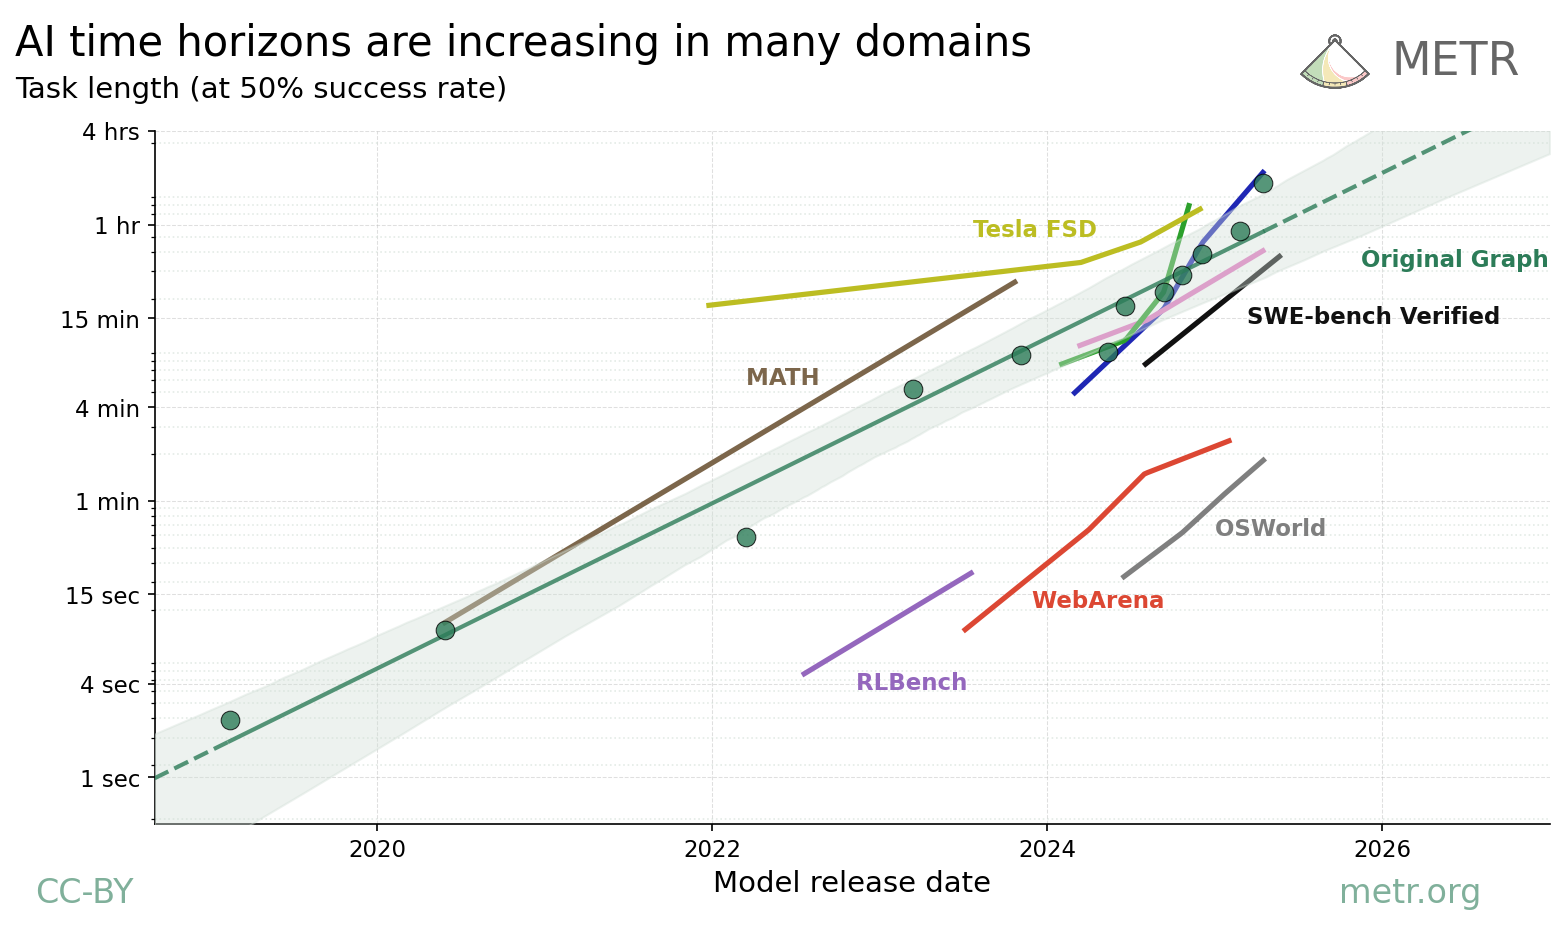
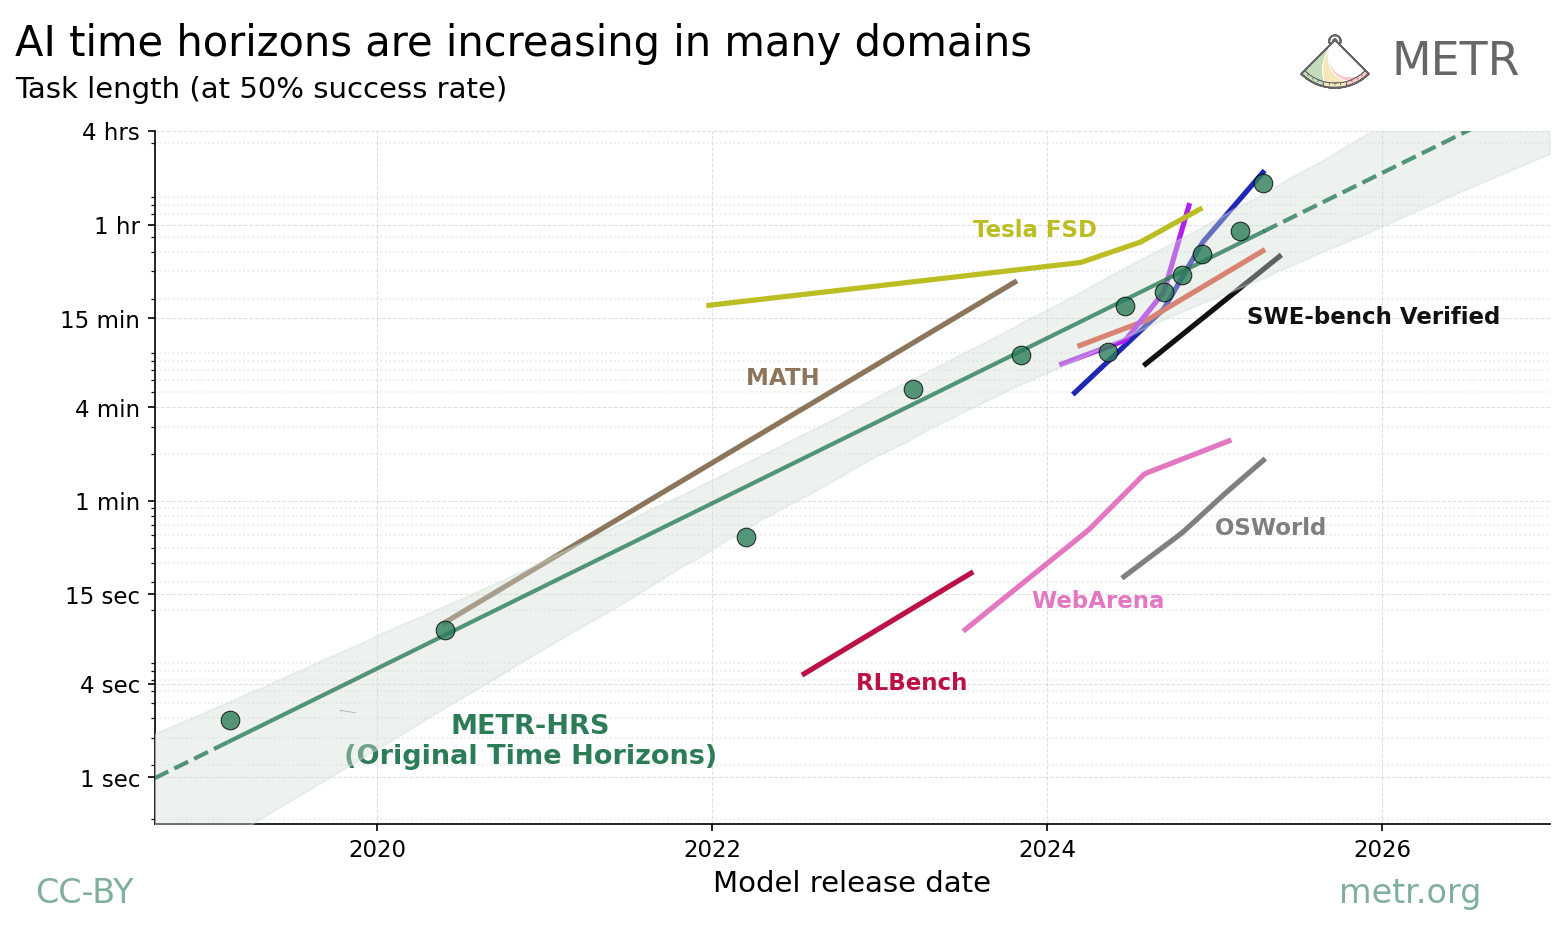
update combined plot

diff --git a/combined.py b/combined.py
@@ -329,19 +329,19 @@ def add_bootstrap_confidence_region(
                 linestyle='-',  # Solid line
                 linewidth=2,
                 label="_HRS_median",  # Underscore to hide from legend
-                zorder=60,  # Above confidence region but below main lines
+                zorder=100,  # Above confidence region
                 alpha=0.8
             )
-            # Add HRS label at the end of the solid portion
-            hrs_label_x = time_points[mask_solid][-1]
-            hrs_label_y = median_predictions[mask_solid][-1]
+            # Add HRS label at the start of the solid portion
+            hrs_label_x = time_points[mask_solid][0]
+            hrs_label_y = median_predictions[mask_solid][0]
             
             # Manual x-axis adjustment for HRS label
-            hrs_label_x += pd.Timedelta(days=220)  
-            hrs_label_y *= 0.8
+            hrs_label_x += pd.Timedelta(days=230)  
+            hrs_label_y *= 1.6
             
-            hrs_text = ax.text(hrs_label_x, hrs_label_y, "  Original Graph", 
-                             color="#2c7c58", fontsize=11, 
+            hrs_text = ax.text(hrs_label_x, hrs_label_y, "METR-HRS\n(Original Time Horizons)", 
+                             color="#2c7c58", fontsize=13, 
                              va='center', ha='left',
                              weight='bold')
             hrs_labels.append(hrs_text)
@@ -935,7 +935,7 @@ def main():
     # Configure plot parameters
     params = CombinedPlotParams(
         # Benchmark settings
-        hide_benchmarks=["hcast_r_s", "hcast_r_s_full_method", "video_mme", "gpqa", "aime"], 
+        hide_benchmarks=["hcast_r_s", "hcast_r_s_full_method", "video_mme", "gpqa", "aime", "livecodebench_2411_2505_approx"], 
         show_points_level=ShowPointsLevel.NONE,  # Show frontier points  
         verbose=False,
         
